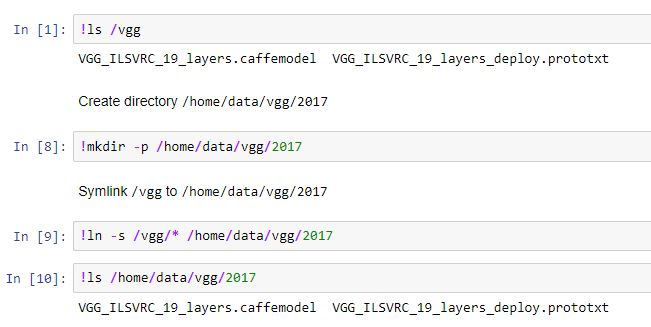
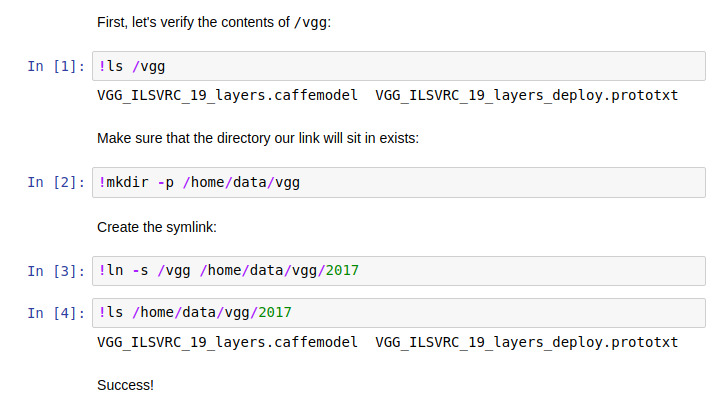
fleshing out the symlinking docs (#67)
* fleshing out the symlinking docs

* update reference to symlink guide in mounting guide

diff --git a/docs/guides/data/symlink_mounted_data.md b/docs/guides/data/symlink_mounted_data.md
@@ -1,33 +1,142 @@
-Sometimes, your code might require your data to be available at a hardcoded location. Or you might want to combine multiple mounted datasources under a single directory. One way to do this would be to copy the data from the mounted locations to the destination, but this is inefficient for large data. [Symlinking](https://en.wikipedia.org/wiki/Symbolic_link) is a great solution for this.
+Floydhub's basic data-mounting functionality is sufficient for most users'
+needs. However, if you find yourself with more complex requirements, symlinking
+can almost certainly provide a solution.
 
-### Example 1
-Your data is mounted under `/vgg` using `--data floydhub/datasets/vgg-ilsvrc-19-layers/1:vgg`. However, your code expects the data to be present at `/home/data/vgg/2017`. Instead of copying the files, you can symlink the two locations
+Here are some common FloydHub data-mounting needs that symlinking can solve:
 
-```bash
-# NOTE: Ensure that /home/data/vgg/2017 already exists
-$ ln -s /vgg/* /home/data/vgg/2017
+  - Code requires the data to be available at a location that is not valid with
+    the mounting syntax of `floyd run --data`.
+  - Multiple mounted datasources need to be available under a single directory.
+  - Directories in a single datasource need to be split into their own
+    locations.
+
+Simply copying the data from one location to another during your job would also
+solve these problems, but copying data is slow and inefficient, especially for
+large datasets. Symlinks can be created very quickly and are a much more ideal
+solution.
+
+## Creating symlinks
+You can create symlinks on FloydHub's deep-learning servers during your job
+using the same `ln` command available on \*nix operating systems (like Linux
+and MacOS). To create a symlink during a job you'll need to send the `ln`
+command to the server's operating system. If you already know how to create
+symlinks on a \*nix OS, you can skip forward to the [Ways to use the `ln`
+command with FloydHub section](#ways-to-use-the-ln-command-with-floydhub). If
+you don't know much about symlinks, read on for a quick primer.
+
+### Intro to symlinks
+You can think of a symlink as an alias for a file or directory that allows
+programs to find the file or directory at more than one location on the file
+system. Calling a symlink an "alias" isn't a technically correct way to refer
+to it, but we'll sometimes use that term in this guide because it can be more
+fitting and easier to internalize and remember.
+
+#### Symlink (`ln`) syntax
+Creating a symlink on a \*nix OS uses the `ln` command. Here is the syntax:
+```
+$ ln -s <TARGET> <LINK_PATH_WITH_OPTIONAL_NAME>
 ```
 
-Jupyter Notebook example:
-![Symlink Jupyter](../../img/symlink_jupyter.jpg)
+Where `<TARGET>` is the path of the existing file or directory you want to
+create an alias/symlink for, and `<LINK_PATH_WITH_OPTIONAL_NAME>` is the path
+and (optional) name of the new symlink/alias of the `<TARGET>`.
 
-### Example 2
+If `<LINK_PATH_WITH_OPTIONAL_NAME>` doesn't include a name, the name of the
+`<TARGET>` will be used. Let's go through a couple of examples to clarify that.
+Assuming you want to create an alias/symlink for `/my_data` and have already
+created a new directory called `/existing_dir`:
 
-You have two datasources mounted under `/train` and `/test` respectively. Your Python script `train_and_eval.py` expects both the datasources to be available under the same parent directory, say `/data/train` and `/data/test`. You can symlink the datasources to the respective destinations.
+  - Specifying a name in `<LINK_PATH_WITH_OPTIONAL_NAME>`:
+    ```
+    $ ln -s /my_data /existing_dir/new_name_for_my_data`
+    ```
+    The new name here is `new_name_for_my_data`. Given the command above, your
+    data will be accessible at `/my_data` and
+    `/existing_dir/new_name_for_my_data`.
+  - Without specifying a name in `<LINK_PATH_WITH_OPTIONAL_NAME>`:
+    ```
+    $ ln -s /my_data /existing_dir`
+    ```
+    Because no new name was given, the name of the `<TARGET>` (which is
+    `my_data`) will be used. The data will accessible at `/my_data` and
+    `/existing_dir/my_data`.
 
-To do this, we can follow one of two solutions.
+Here are some notes/gotchas about creating symlinks using `ln`:
 
-**Solution 1**: Include the symlink commands as part of your `floyd run` command.
+  - Always use absolute paths for both the `<TARGET>` and
+    `<LINK_PATH_WITH_OPTIONAL_NAME>` parameters. This will ensure you don't run
+    into some odd behaviors that can manifest when using relative paths.
+  - The directory in which the `<LINK_PATH_WITH_OPTIONAL_NAME>` terminates must
+    already exist. For example, if you want to make the data located at
+    `/my_data` to be aliased/symlinked at `/home/me/foo_data`, you first need
+    to create the `/home/me` directory.The following commands would
+    successfully implement this goal:
+    ```
+    # First we make sure the /home/me directory exists:
+    $ mkdir -p /home/me
+
+    # Now we are ready to create the symlink. We'll supply the name foo_data
+    # to the <LINK_PATH_WITH_OPTIONAL_NAME> parameter:
+    $ ln -s /my_data /home/me/foo_data
+    ```
+
+### Ways to use the `ln` command with FloydHub
+
+To send the `ln` command to the server's OS to create a symlink during your
+job, you can follow one of at least a few approaches:
+
+#### 1. Using the `[COMMAND]` portion of `floyd run`
+
+With this approach, we add the `ln` calls to the `[COMMAND]` portion of the
+call to `floyd run [OPTIONS] [COMMAND]` (see the `floyd run` syntax
+[here](../../commands/run.md)). This is the most straight-forward approach, but
+it can it can get a bit unwieldy if you have more complex needs.
+
+##### Example 1
+
+Let's say you have two datasources mounted under `/train` and `/test`,
+respectively. Your Python script `train_and_eval.py` expects both the
+datasources to be available under the same parent directory, say `/data/train`
+and `/data/test`. You can symlink the datasources to those locations.
+
+In the example below, we create a directory called `/data`, and then create
+links inside of it to our datasets, which are at `/train` and `/test` (note the
+`--data` flags). This means that our Python script can reference `/data/train`
+and `/data/test` and it will find our datasets.
+
+The `[COMMAND]` portion of the `floyd run [OPTIONS] [COMMAND]` in this example
+chains a series of commands, which are executed in sequence:
+
+1. `mkdir -p /data`
+2. `ln -s /train /data`
+3. `ln -s /test /data`
+4. `python train_and_eval.py`
+
+Here's the command in full:
 
 ```bash
-$ floyd run --data alice/datasets/imagenet-train/1:train --data alice/datasets/imagenet-test/1:test "mkdir /data && ln -s /train /data && ln -s /test /data && python train_and_eval.py"
+$ floyd run \
+  --data alice/datasets/imagenet-train/1:train \
+  --data alice/datasets/imagenet-test/1:test \
+  "mkdir -p /data && ln -s /train /data && ln -s /test /data && python train_and_eval.py"
 ```
 
-This example chains a series of commands, which are executed in sequence: `mkdir`, `ln -s /train /data`, `ln -s /test /data` and `python train_and_eval.py`
+#### 2. Using a bash script
 
-**Solution 2**: Solution 1 can get unwieldy when there are many commands. An alternative would be to create a bash script (`run.sh`) with the sequence of commands and then execute this bash script.
+As you can see in the previous section, using the `[COMMAND]` portion of `floyd
+run [OPTIONS] [COMMAND]` can get unwieldy when there are many commands. A
+better alternative is to create a bash script that creates our symlinks and
+also kicks off our main Python script.
 
-`run.sh`
+If you are not familiar with writing bash scripts, a quick search of the
+Internet can get you up to speed on the basics, but bash scripting is out of
+the scope of this documentation.
+
+##### Example 1
+
+This bash script should live in the root/top-level directory of your project.
+We'll call ours `run.sh`. Here's an example of what it might look like:
+
 ```bash
 #!/bin/bash
 
@@ -42,8 +151,58 @@ ln -s /test /data
 python train_and_eval.py
 ```
 
-Execute the bash script using `floyd run`:
+Let's execute the bash script using `floyd run`:
 
 ```bash
 $ floyd run "bash run.sh"
 ```
+
+Because the last line of our bash script runs our Python script, we can kick
+off our entire job by running only the bash script.
+
+This is a very effective pattern if your jobs require a more complex
+setup—create a bash script that sets up your environment, and then have the
+bash script call your python script. This keeps your setup separate from your
+code, and keeps things clean.
+
+##### Example 2
+
+Your data is mounted under `/vgg` using `--data
+floydhub/datasets/vgg-ilsvrc-19-layers/1:vgg`. However, your code expects the
+data to be present at `/home/data/vgg/2017`. Let's create a symlink to make
+your data available at `/home/data/vgg/2017`. Here's an example of a bash
+script (we'll call it `run.sh`) that takes care of the symlinking and
+calls our training script.
+
+```bash
+#!/bin/bash
+
+# Create directory
+mkdir -p /home/data/vgg
+
+# Symlink our data at /home/data/vgg/2017
+ln -s /vgg /home/data/vgg/2017
+
+# Call our training script
+python train.py
+```
+
+Now let's tie it all together with our `floyd run command`:
+
+```
+$ floyd run --data floydhub/datasets/vgg-ilsvrc-19-layers/1:vgg "bash run.sh"
+```
+
+#### 3. For Jupyter Notebooks
+Symlinking with Jupyter Notebooks follows the same principles that a regular
+job does. Here's an example:
+
+##### Example 1
+Your data is mounted under `/vgg` using `--data
+floydhub/datasets/vgg-ilsvrc-19-layers/1:vgg`, but you want your data to be
+present at `/home/data/vgg/2017`. The notebook below accomplishes that with a
+symlink:
+
+![Symlink Jupyter](../../img/symlink_jupyter.jpg)
+{!contributing.md!}
+

diff --git a/docs/guides/data/mounting_data.md b/docs/guides/data/mounting_data.md
@@ -158,12 +158,20 @@ specific job by going to the Data tab:
 
 ### Symlinking your mounted data
 
-Sometimes, your code might require your data to be available at a hardcoded
-location. Or you might want to combine multiple mounted datasources under a
-single directory. One way to do this would be to copy the data from the mounted
-locations to the destination, but this is inefficient for large data.
-Symlinking is a great solution for this.
-Please see this guide: [Symlinking mounted data](./symlink_mounted_data)
+Floydhub's basic data-mounting functionality is sufficient for most users'
+needs. However, if you find yourself with more complex requirements, symlinking
+can almost certainly provide a solution.
+
+Here are some common FloydHub data-mounting needs that symlinking can solve:
+
+  - Code requires the data to be available at a location that is not valid with
+    the mounting syntax of `floyd run --data`.
+  - Multiple mounted datasources need to be available under a single directory.
+  - Directories in a single datasource need to be split into their own
+    locations.
+
+For documentation on symlinking, please see this guide: [Symlinking mounted
+data](./symlink_mounted_data)
 
 ### Understanding dataset names
 
